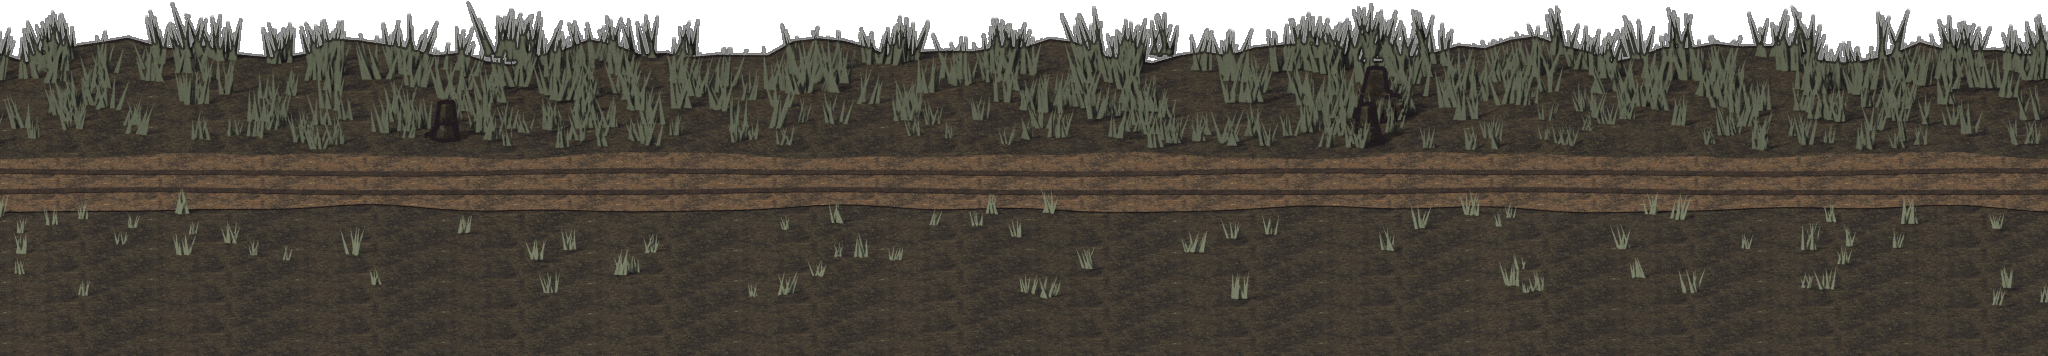
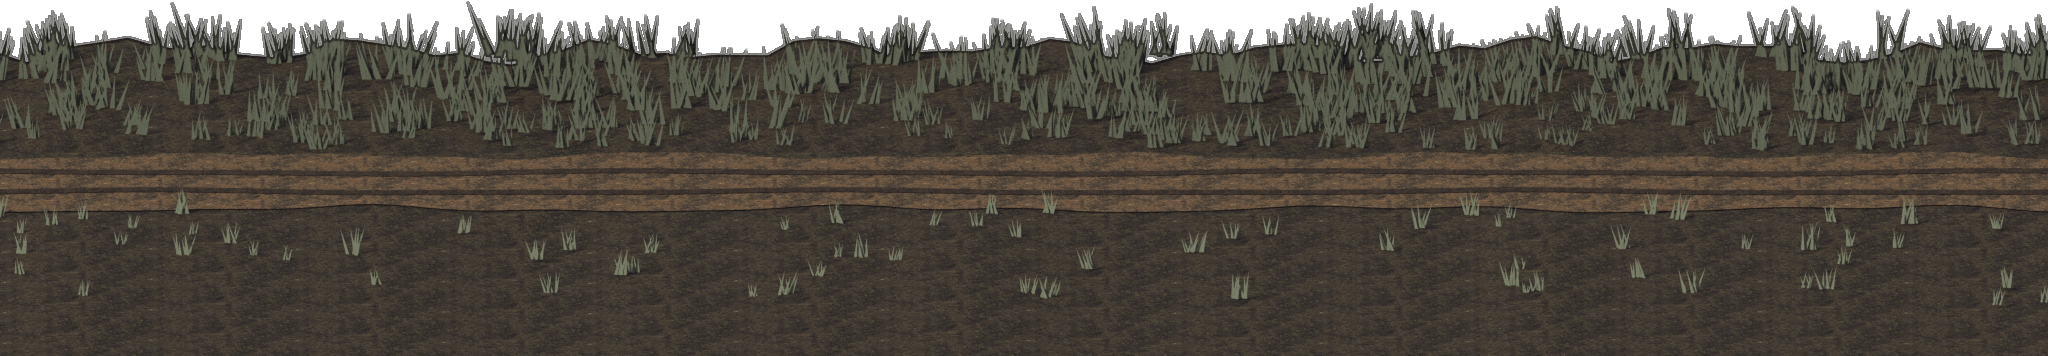
12.2d: yol zemin şeritlerinden kütük gibi okunan taşlar çıkarıldı
Kervanın altındaki 'ağaç kütüğü' çubukları ağaç değil, zemin katmanındaki Kenney rock-small taşlarıydı (dik, silindirik, yosunlu).
Zemin katmanından taşlar kaldırıldı (orta katmanda rock-wide ağırlıklı taş çeşitliliği duruyor), beş biyomun ground.png'si Blender 4.2 ile
yeniden render edilip road_post.py'den geçirildi; layout.json değişmedi (tek tek aynı yükseklik ve bağlantı noktaları).
Üretim betikleri Blender 4.2'de çalışır hale getirildi (use_nodes) ve WAYBORNE_ROOT ortam değişkeni eklendi. Not: yeniden render
ot yoğunluğunu eski teslimattan biraz farklı çıkardı; kullanıcı onayı bekliyor, istenmezse commit geri alınır.

Changed region(s): [[0.6562, 0.1854, 0.6875, 0.4017], [0.1875, 0.309, 0.25, 0.4017]]

diff --git a/tools/ui_scenes/road_scene.py b/tools/ui_scenes/road_scene.py
@@ -129,6 +129,7 @@ def material(name, rgb, rough=0.95, tex=None, scale=0.25, tint=None, snow=0.0, L
     kar gürültüsü de x'i bir çembere sarıp okuyor - yoksa şeridin iki kenarı
     birbirini tutmaz ve oyunda her döşemede bir dikiş görünür."""
     m = bpy.data.materials.new(name)
+    m.use_nodes = True  # Blender 4.2: varsayılan kapalı
     nt = m.node_tree
     bsdf = nt.nodes["Principled BSDF"]
     bsdf.inputs["Roughness"].default_value = rough
@@ -272,6 +273,7 @@ def shadow_catcher(L, y0, y1):
 
 def light_rig():
     w = bpy.data.worlds.new("road_sky")
+    w.use_nodes = True  # Blender 4.2: varsayılan kapalı
     bpy.context.scene.world = w
     w.node_tree.nodes["Background"].inputs["Color"].default_value = (0.55, 0.58, 0.64, 1.0)
     w.node_tree.nodes["Background"].inputs["Strength"].default_value = 0.55
@@ -481,7 +483,7 @@ def build_mid(b, spec, rng):
         h = rng.uniform(lo, hi) * (1.0 - y / 60.0)
         place_tree_wrapped(pick(b["trees"], rng), x, y, h, rng, mats, L, "t%d" % i)
     for _ in range(int(4 * b["rocks"] * L / 72.0)):
-        kind = rng.choice(["rock-large", "rock-wide", "rock-small"])
+        kind = rng.choice(["rock-large", "rock-wide", "rock-wide"])
         place_wrapped(T.ftk(kind), rng.uniform(0, L), rng.uniform(0.0, 10.0), 0.0,
                       rng.uniform(0, 360), rng.uniform(1.2, 2.6), L, mats=rock_material(b))
 
@@ -535,10 +537,9 @@ def build_ground(b, spec, rng):
         for xx in wrapped(x, L):
             tuft("gf%d" % n, xx, rng.uniform(-6.0, 2.8), rng.uniform(0.3, 0.6), b["grass"], cache, rng)
         n += 1
-    for _ in range(int(6 * b["rocks"]) + 1):
-        y = rng.choice([rng.uniform(-3.0, 2.2), rng.uniform(9.0, 12.0)])
-        place_wrapped(T.ftk("rock-small"), rng.uniform(0, L), y, 0.0, rng.uniform(0, 360),
-                      rng.uniform(0.4, 0.9), L, mats=rock_material(b))
+    # Zemin katmanında taş yok (görev 12.2d): Kenney kayaları dik ve yosunlu
+    # çıkıyor, kervanın hemen altında ağaç kütüğü gibi okunuyordu. Taş
+    # çeşitliliği orta katmanda (build_mid) kalıyor; yakın planda yalnızca ot.
 
 
 def flower(name, x, y, h, colour, mat_cache, stem_mat):

diff --git a/tools/ui_scenes/town_scene.py b/tools/ui_scenes/town_scene.py
@@ -20,7 +20,7 @@ import sys
 import bpy
 from mathutils import Euler, Matrix, Vector
 
-ROOT = "/home/user/wayborne-ui"
+ROOT = os.environ.get("WAYBORNE_ROOT", "/home/user/wayborne-ui")
 QV = os.path.join(ROOT, "art_source/models/props/quaternius_medieval_village")
 QM = os.path.join(ROOT, "art_source/models/props/quaternius_modular_medieval")
 FTK = os.path.join(ROOT, "art_source/models/ui_scenes/kenney_fantasy_town/GLB format")
@@ -143,6 +143,7 @@ def _stone_material(name="terrace_stone", value=0.55):
     if m is not None:
         return m
     m = bpy.data.materials.new(name)
+    m.use_nodes = True  # Blender 4.2: varsayılan kapalı
     nt = m.node_tree
     bsdf = nt.nodes["Principled BSDF"]
     tc = nt.nodes.new("ShaderNodeTexCoord")
